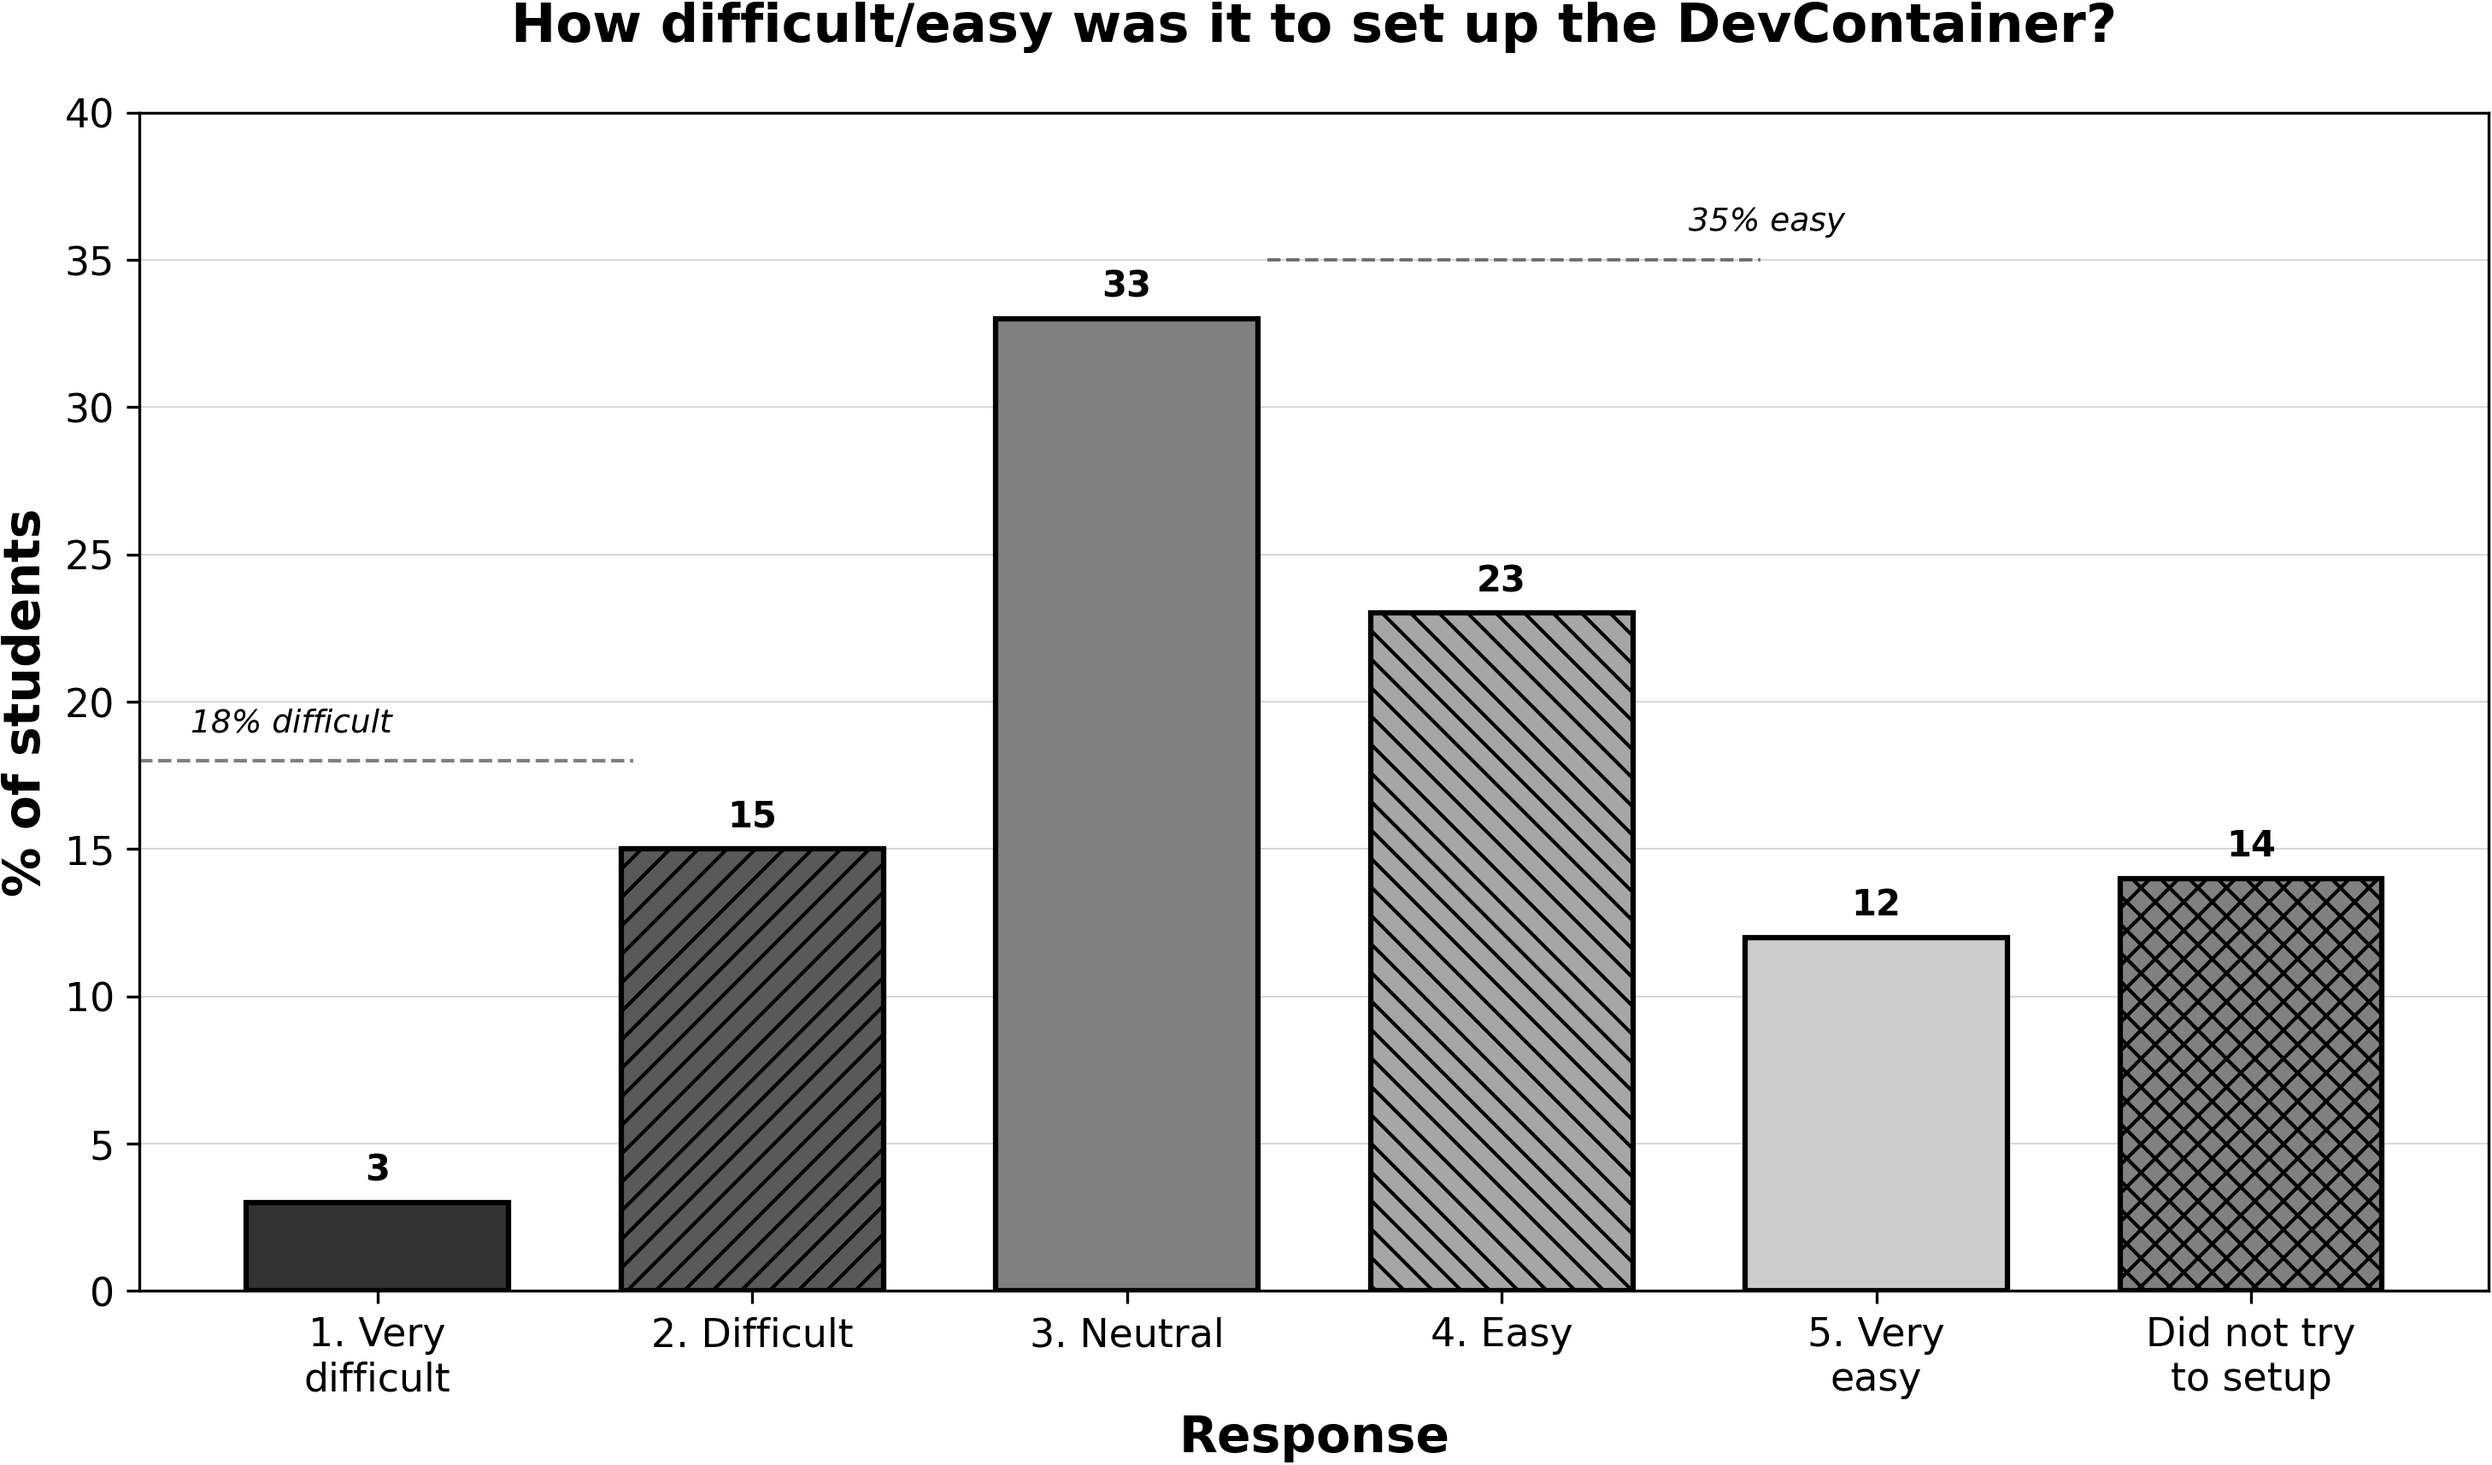
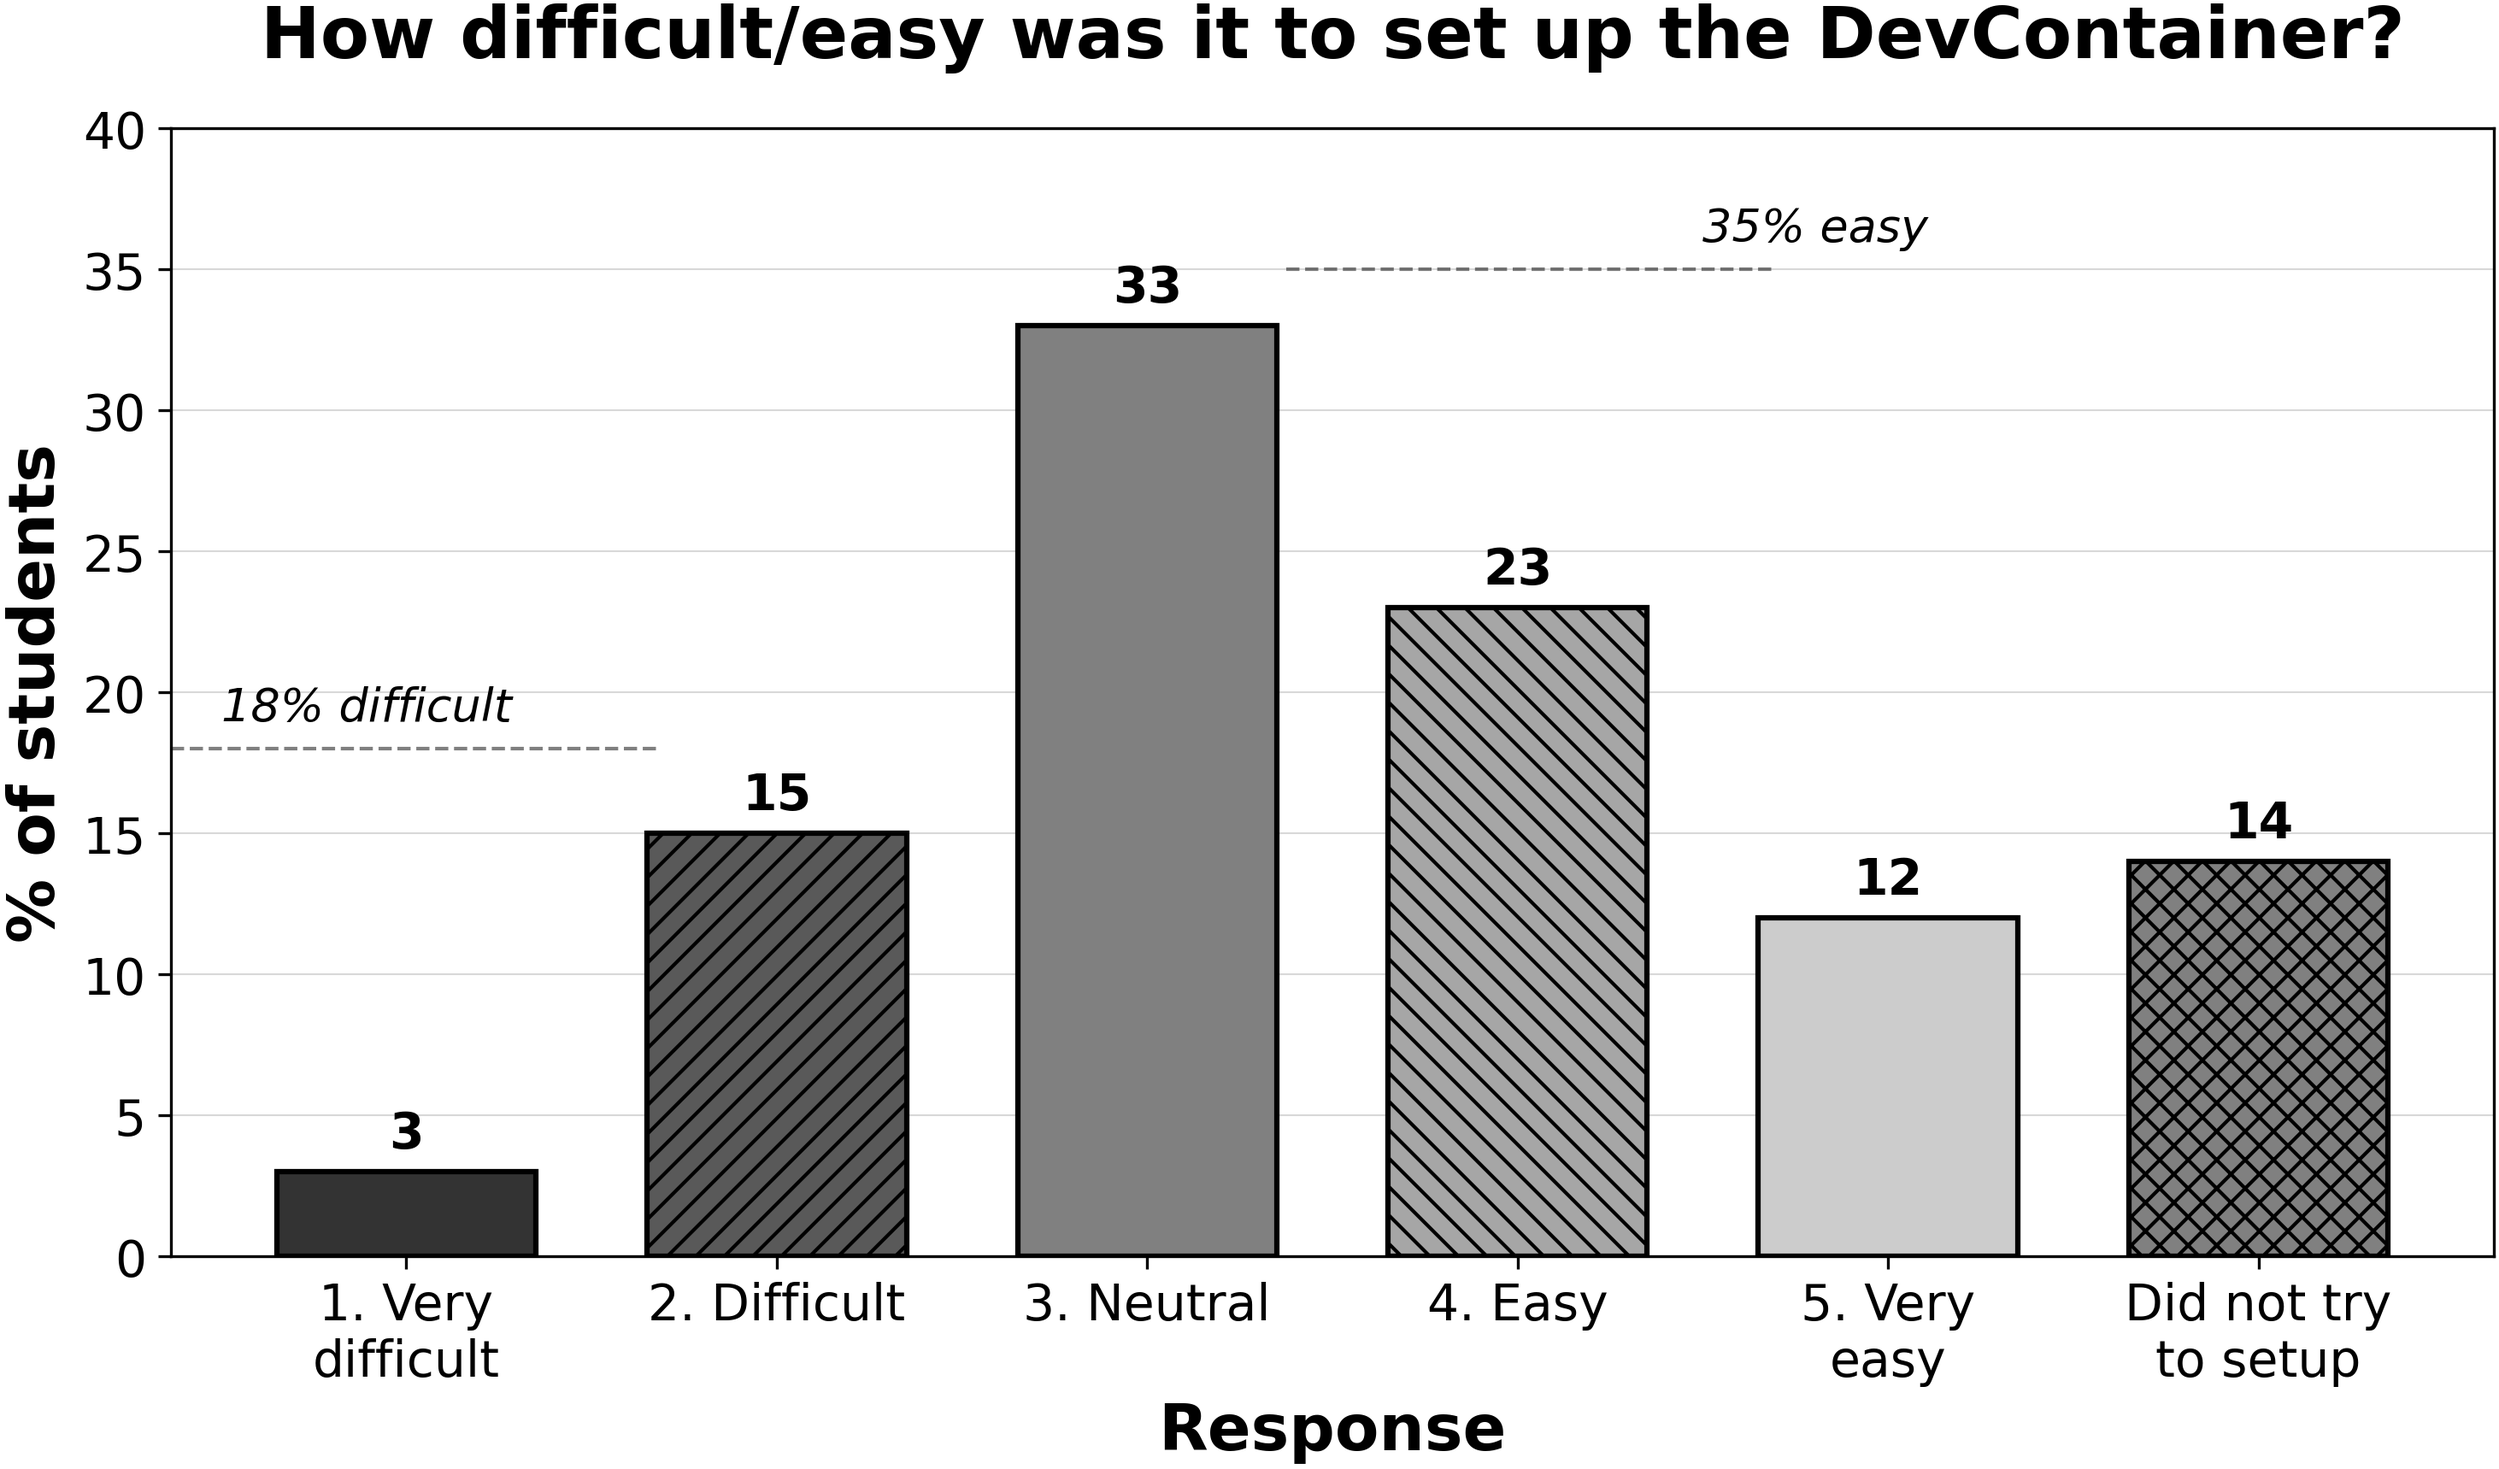
Improve images Chapter 2

diff --git a/figures/devcontainer_setup_difficulty_regenerate.py b/figures/devcontainer_setup_difficulty_regenerate.py
@@ -41,12 +41,12 @@ for bar, hatch in zip(bars, hatches):
     bar.set_hatch(hatch)
 
 # Customize axes
-ax.set_ylabel('% of students', fontsize=14, fontweight='bold')
-ax.set_xlabel('Response', fontsize=14, fontweight='bold')
+ax.set_ylabel('% of students', fontsize=18, fontweight='bold')
+ax.set_xlabel('Response', fontsize=18, fontweight='bold')
 ax.set_title('How difficult/easy was it to set up the DevContainer?',
-             fontsize=15, fontweight='bold', pad=20)
+             fontsize=20, fontweight='bold', pad=20)
 ax.set_xticks(x_pos)
-ax.set_xticklabels(categories, fontsize=11)
+ax.set_xticklabels(categories, fontsize=14)
 ax.set_ylim(0, 40)
 
 # Add horizontal grid for better readability
@@ -54,23 +54,23 @@ ax.yaxis.grid(True, linestyle='-', alpha=0.3, color='grey', linewidth=0.5)
 ax.set_axisbelow(True)
 
 # Customize tick parameters
-ax.tick_params(axis='both', which='major', labelsize=11)
+ax.tick_params(axis='both', which='major', labelsize=14)
 
 # Add value labels on top of bars
 for i, pct in enumerate(percentages):
     ax.text(i, pct + 0.5, f'{pct}',
-            ha='center', va='bottom', fontsize=10, fontweight='bold')
+            ha='center', va='bottom', fontsize=14, fontweight='bold')
 
 # Add reference lines and annotations for key insights
 # Difficult/Very difficult (18%)
 ax.axhline(y=18, xmin=0, xmax=0.21, color='black', linestyle='--',
            linewidth=1, alpha=0.5)
-ax.text(-0.5, 19, '18% difficult', fontsize=9, style='italic')
+ax.text(-0.5, 19, '18% difficult', fontsize=13, style='italic')
 
 # Easy/Very easy (35%)
 ax.axhline(y=35, xmin=0.48, xmax=0.69, color='black', linestyle='--',
            linewidth=1, alpha=0.5)
-ax.text(3.5, 36, '35% easy', fontsize=9, style='italic')
+ax.text(3.5, 36, '35% easy', fontsize=13, style='italic')
 
 # Adjust layout to prevent label cutoff
 plt.tight_layout()

diff --git a/figures/linpack_performance_comparison_thesis_regenerate.py b/figures/linpack_performance_comparison_thesis_regenerate.py
@@ -35,10 +35,10 @@ for bar, hatch in zip(bars, hatches):
     bar.set_hatch(hatch)
 
 # Customize axes
-ax.set_ylabel('Linpack GFLOPS', fontsize=14, fontweight='bold')
-ax.set_xlabel('Environment type', fontsize=14, fontweight='bold')
+ax.set_ylabel('Linpack GFLOPS', fontsize=15, fontweight='bold')
+ax.set_xlabel('Environment type', fontsize=15, fontweight='bold')
 ax.set_xticks(x_pos)
-ax.set_xticklabels(configurations, fontsize=12)
+ax.set_xticklabels(configurations, fontsize=13)
 ax.set_ylim(0, 350)
 
 # Add grid for better readability
@@ -46,12 +46,12 @@ ax.yaxis.grid(True, linestyle='-', alpha=0.3, color='grey', linewidth=0.5)
 ax.set_axisbelow(True)
 
 # Customize tick parameters
-ax.tick_params(axis='both', which='major', labelsize=11)
+ax.tick_params(axis='both', which='major', labelsize=13)
 
 # Add value labels on top of bars (rounded for display)
 for i, (perf, std) in enumerate(zip(performance, std_dev)):
     ax.text(i, perf + std + 10, f'{perf:.1f}',
-            ha='center', va='bottom', fontsize=11, fontweight='bold')
+            ha='center', va='bottom', fontsize=13, fontweight='bold')
 
 # Adjust layout to prevent label cutoff
 plt.tight_layout()
